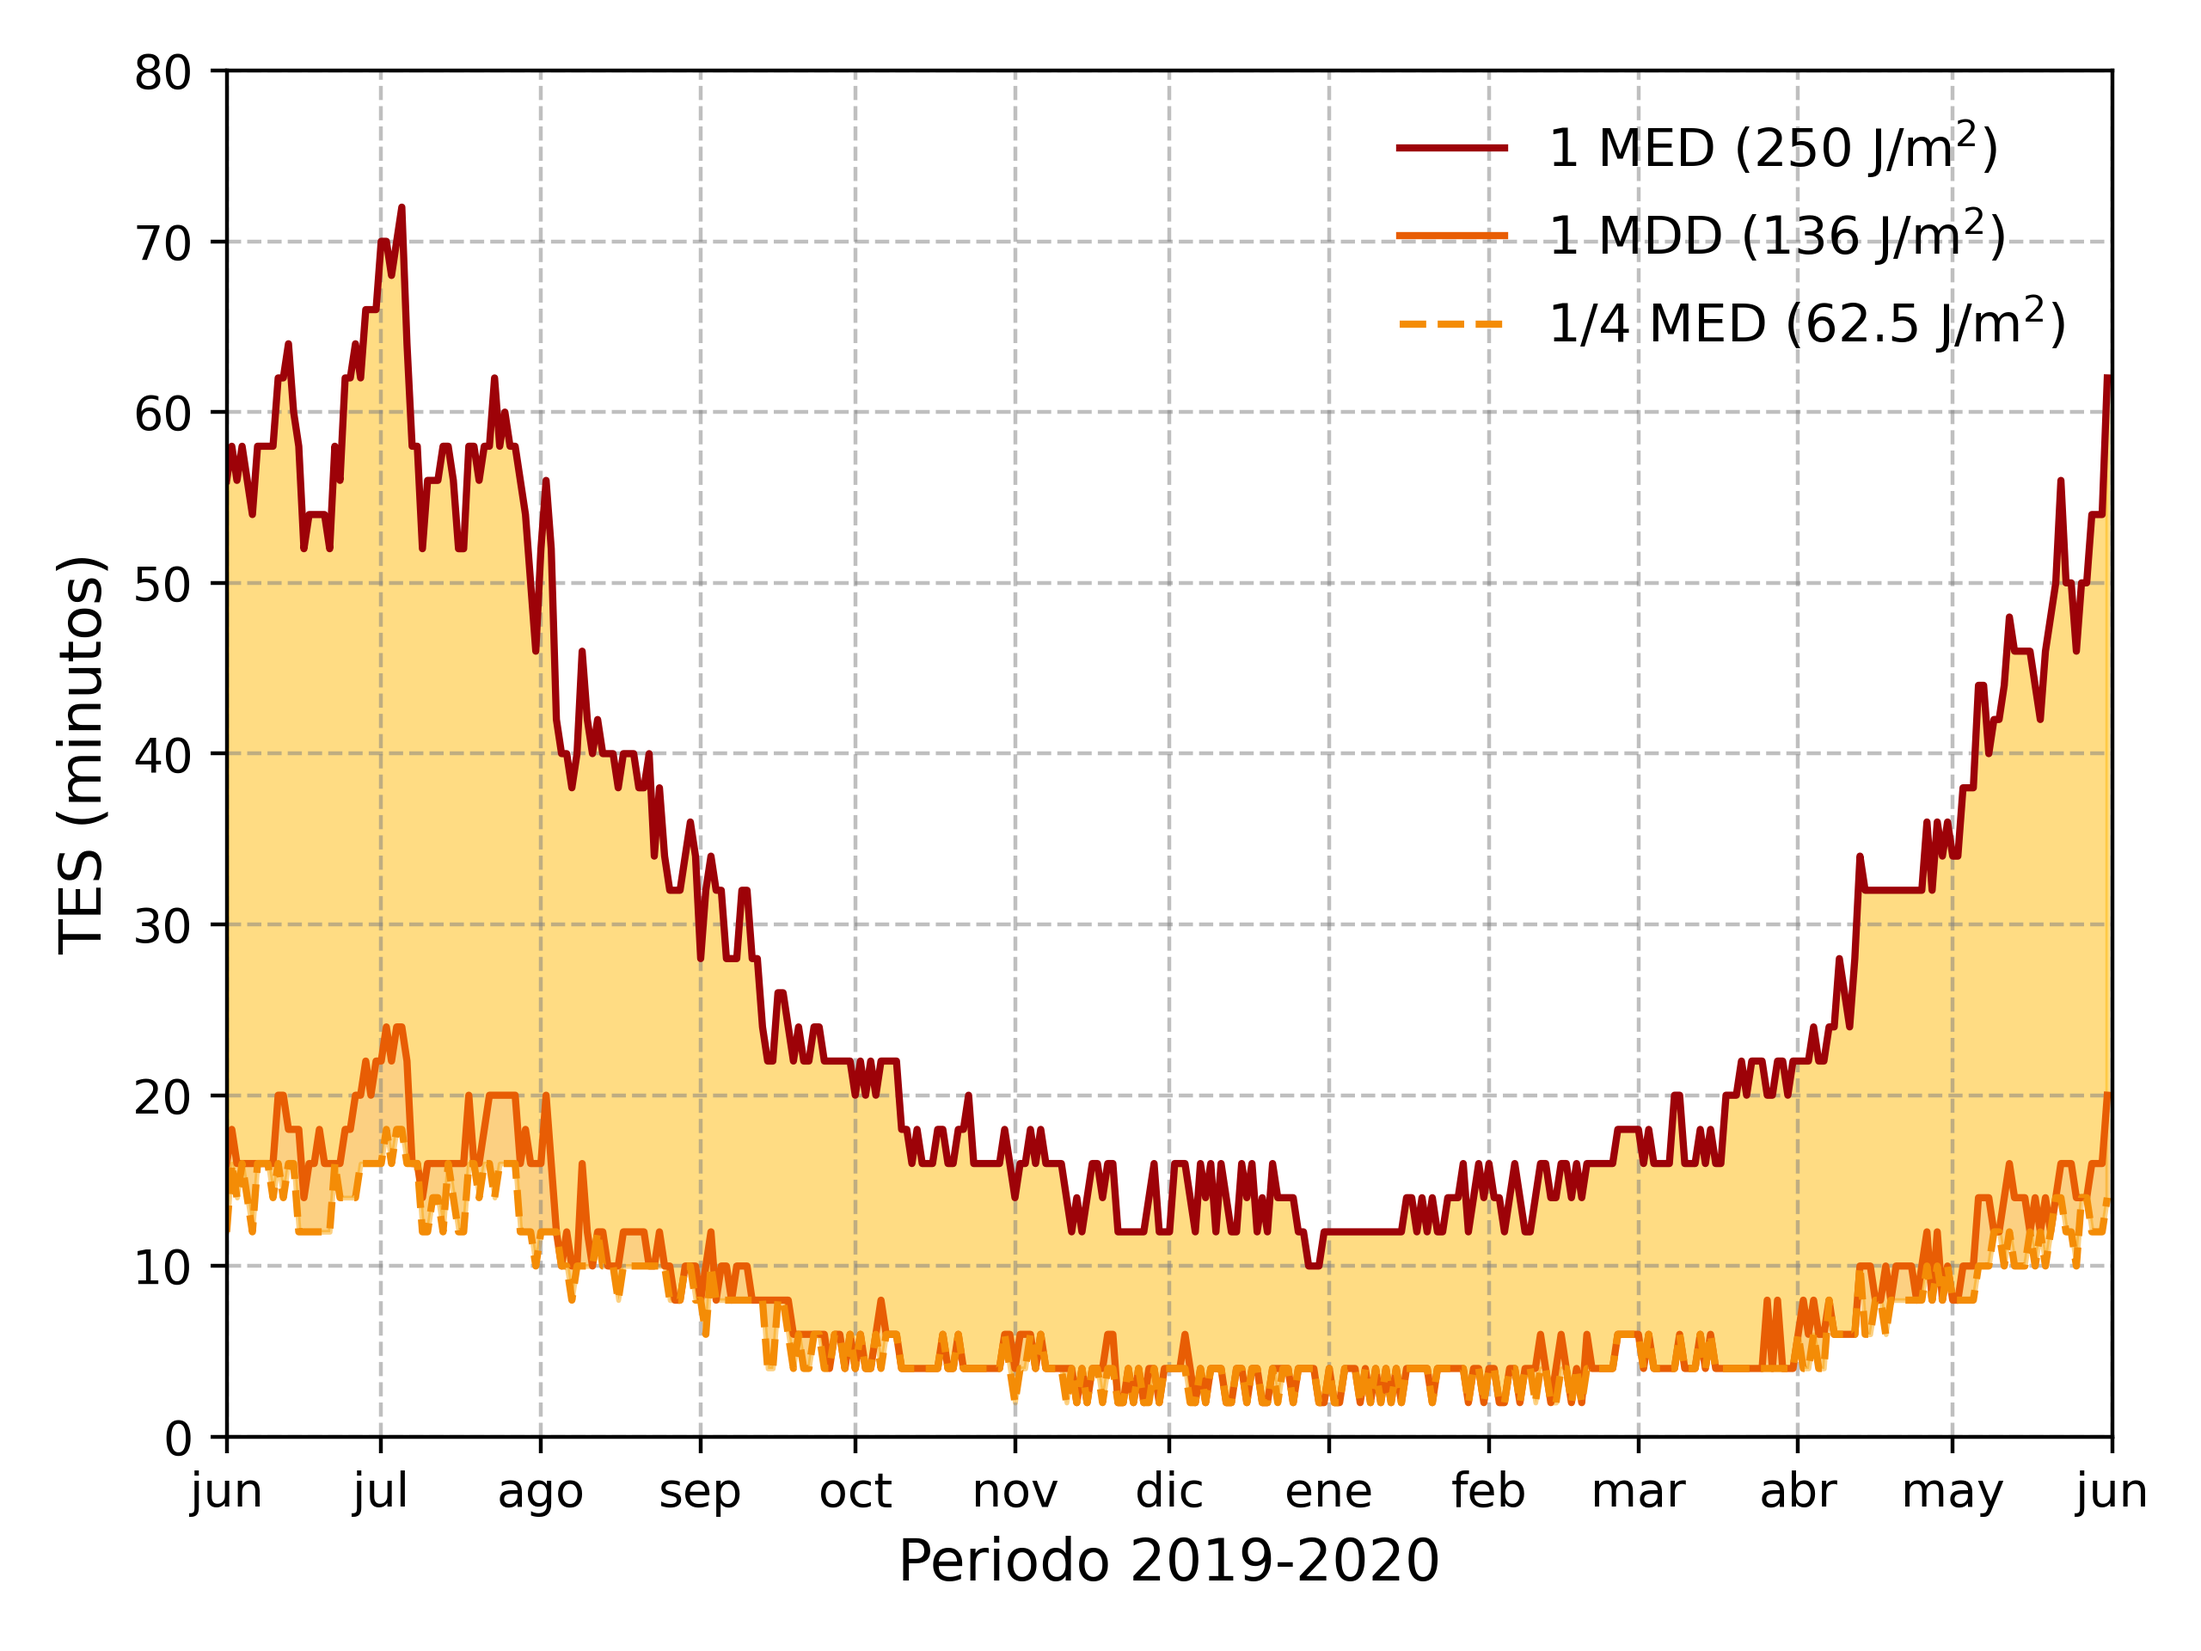
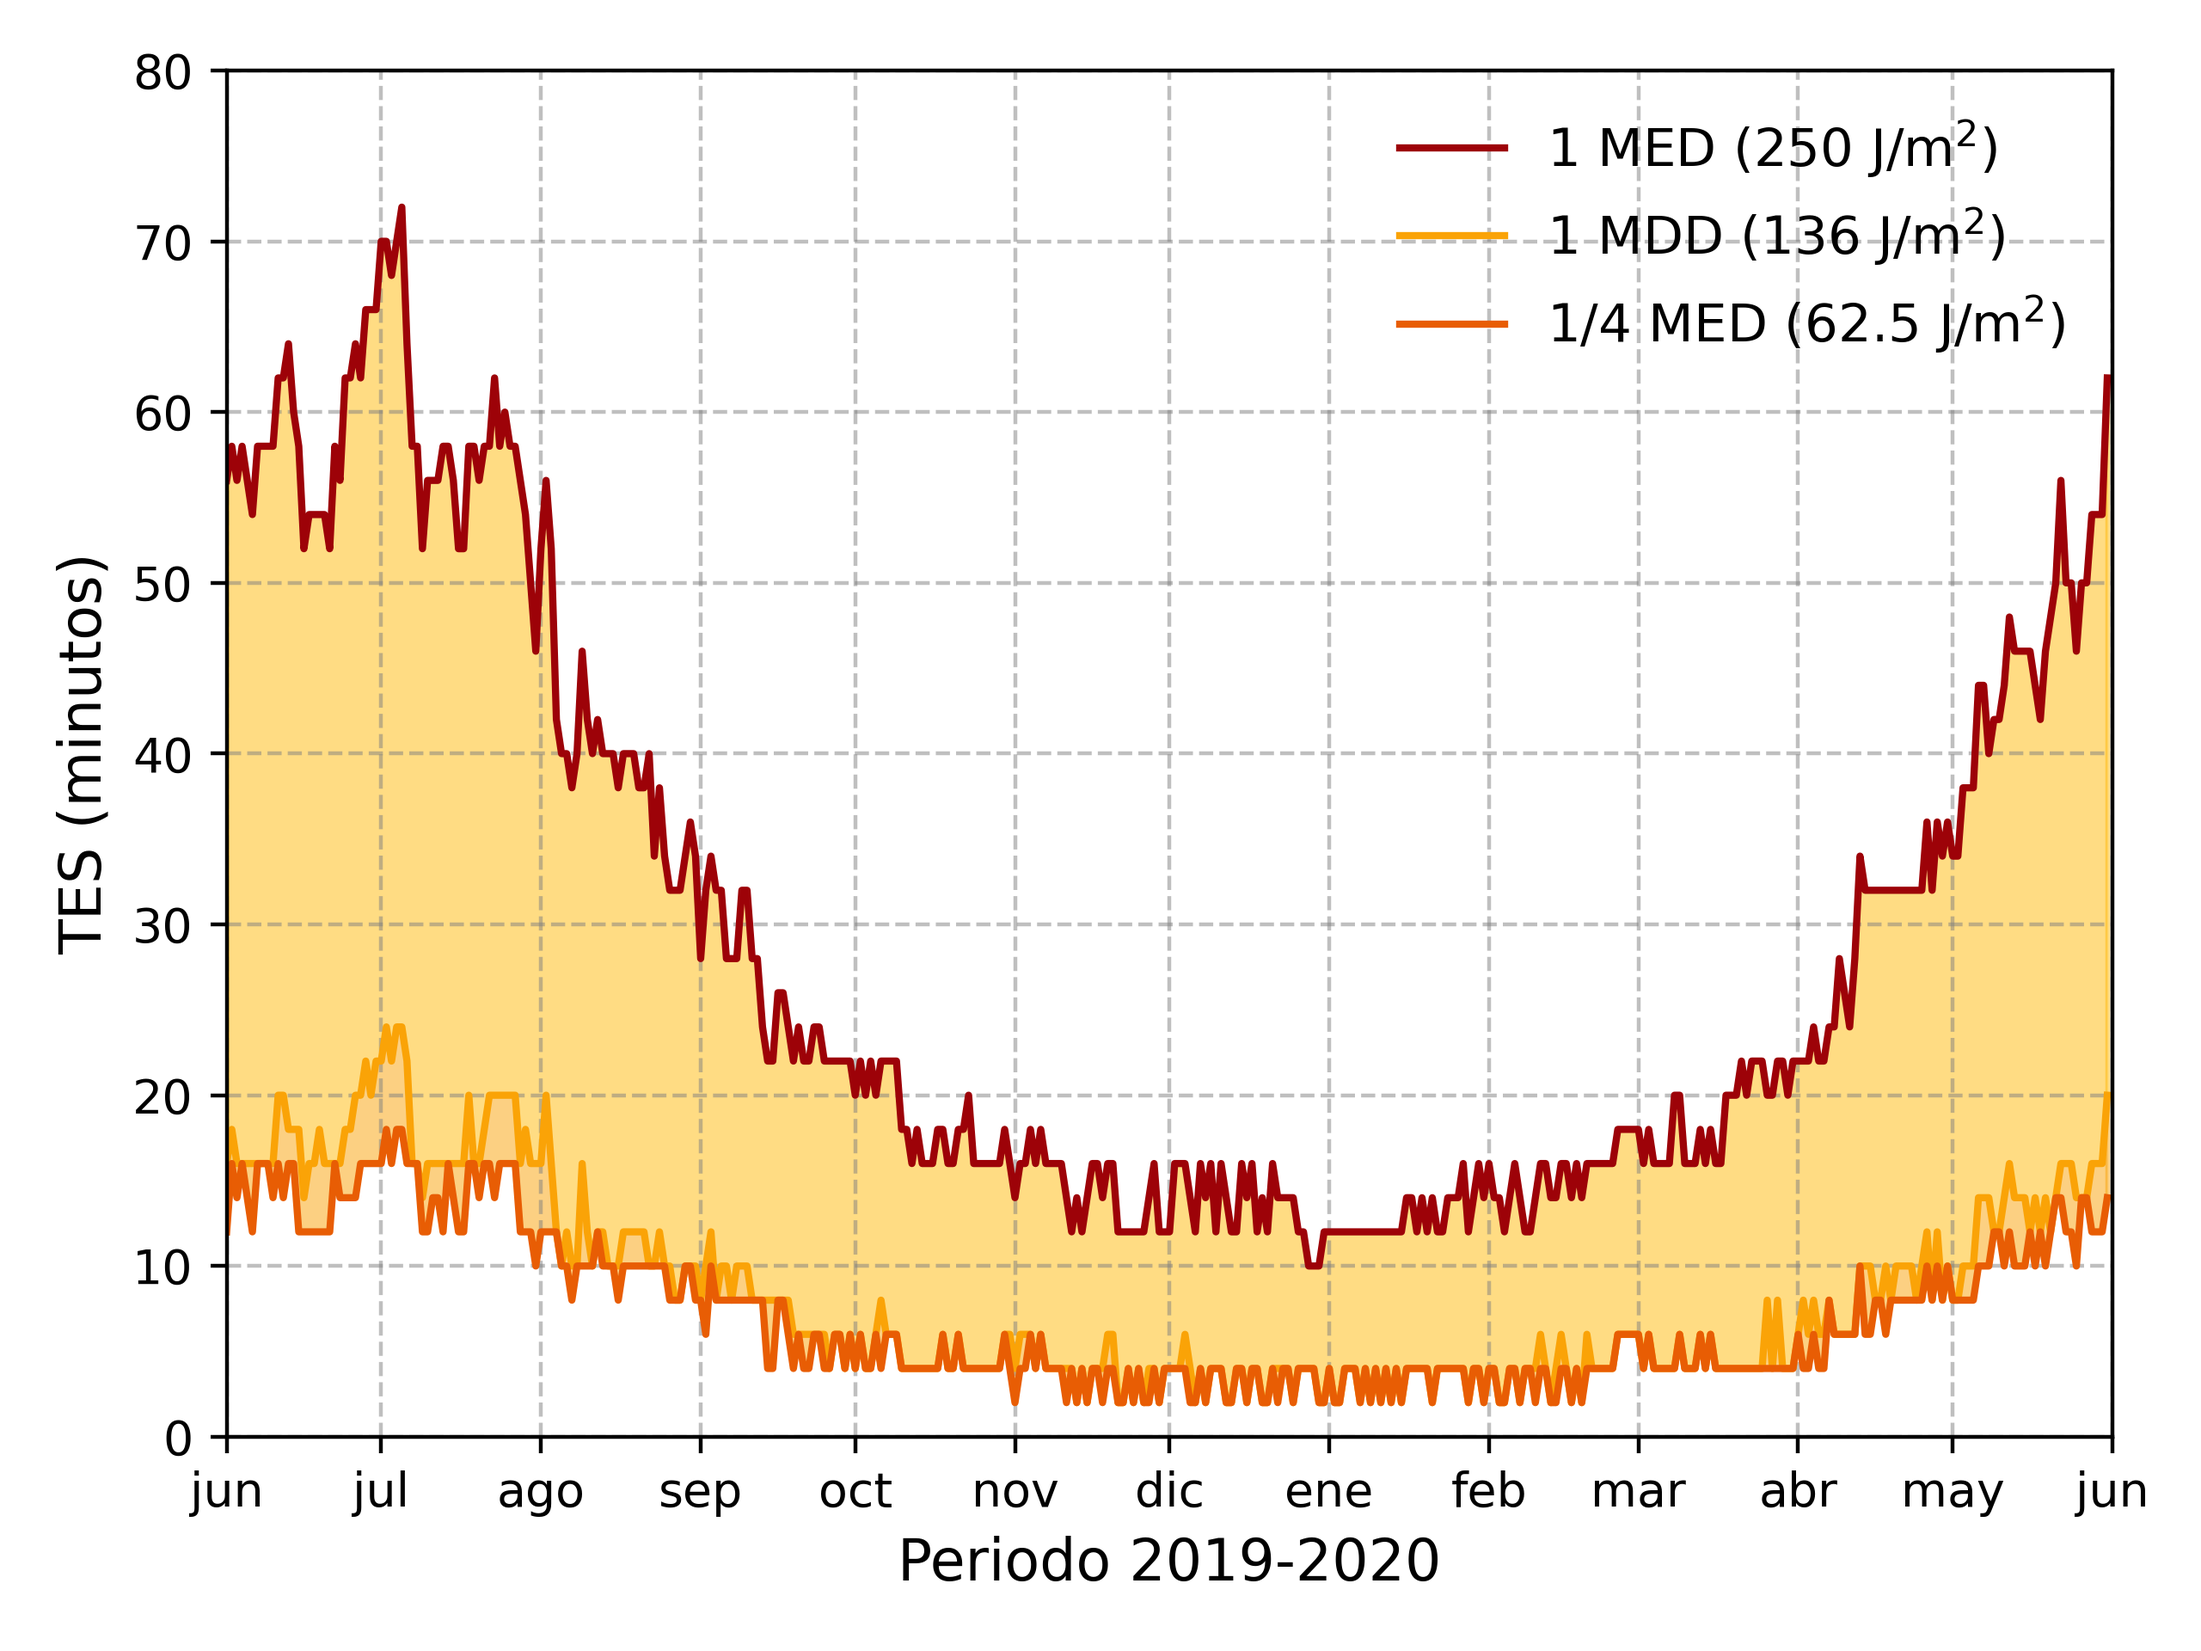
Change colors

Changed region(s): [[0.0938, 0.625, 0.9688, 0.875], [0.625, 0.1875, 0.6875, 0.2188], [0.6562, 0.125, 0.6875, 0.1562]]

diff --git a/Scripts/Graphics_doses.py b/Scripts/Graphics_doses.py
@@ -23,9 +23,9 @@ parameters = {"path data": "../Data/",
               "graphics name": "dosis_vitamin.png",
               "date initial": "2019-06-01",
               "date final": "2020-06-01",
-              "Vitamin color": "#e85d04",
+              "Vitamin color": "#faa307",
               "Vitamin label": "1 MDD (136 J/m$^2$)",
-              "1/4 MED color": "#f48c06",
+              "1/4 MED color": "#e85d04",
               "1/4 MED label": "1/4 MED (62.5 J/m$^2$)",
               "1 MED color": "#9d0208",
               "1 MED label": "1 MED (250 J/m$^2$)",
@@ -46,8 +46,7 @@ plt.fill_between(data.index, data["vitamin"],
 plt.plot(data.index, data["1/4 MED"],
          color=parameters["1/4 MED color"],
          label=parameters["1/4 MED label"],
-         lw=1.5,
-         ls="--")
+         lw=1.5)
 plt.fill_between(data.index, data["vitamin"],
                  data["1 MED"],
                  color="#ffba08",
